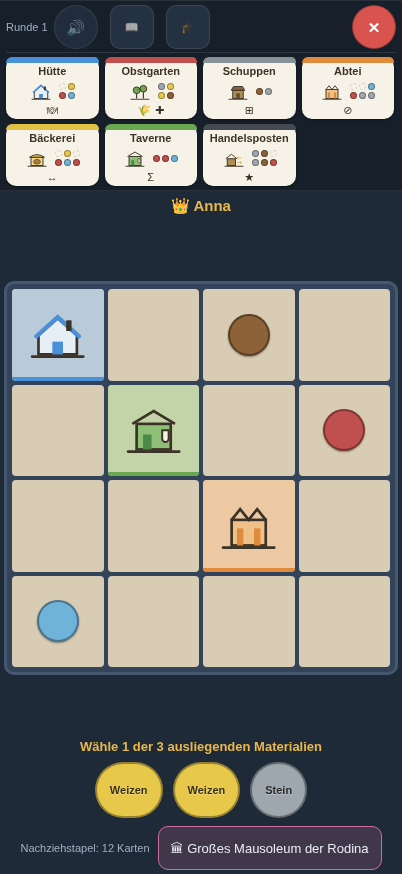
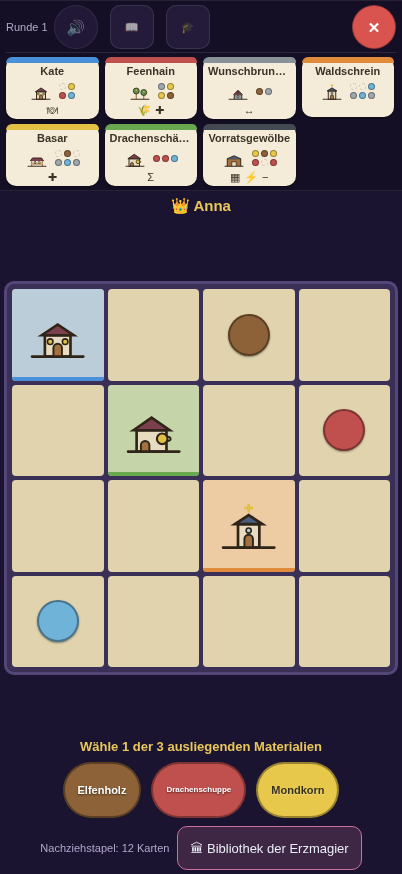
Das Drachenreich ist die Standard-Welt (v4.1.0)
Aus der Rechtsdurchsicht: Die App zeigt von sich aus keine fremden
Bezeichnungen mehr. Namen, Texte und Artworks des Drachenreichs sind
durchgehend eigene Schöpfungen — was bleibt, ist das Spielsystem, und
Systeme sind frei. Die klassische Welt bleibt eine Wahl im 🎨-Menü, für alle,
die die vertrauten Namen wollen.

Technisch ein kleiner Eingriff: DEFAULT_THEME in src/theme/index.ts, plus
das Inline-Skript in index.html, das die Palette schon vor dem ersten Paint
setzt — ohne diese zweite Stelle blitzt beim Laden kurz die klassische Welt
auf. Eine getroffene Wahl gilt weiter; ungefragt gespeichert wird nichts,
sonst könnte ein späterer Standardwechsel alte Geräte nie mehr erreichen.

Die Smoke-Tests suchen Bedienelemente und Materialien über ihre deutschen
Klassik-Namen („Eisenbahn-Modus", „Weizen"). Die heißen im Drachenreich
anders, also liefen sie nach dem Wechsel ins Leere. Sie laufen jetzt fest in
der klassischen Welt (storageState je Kontext) — sie messen Mechanik und
Layout, nicht Benennung. Der Standard hat einen eigenen Block, der ihn
ausdrücklich prüft: Palette schon im Splash, Auslage trägt „Kate" und nicht
„Hütte", nichts ungefragt gespeichert. Gegenprobe im selben Block: Wer
klassisch wählt, bekommt klassisch.

README-Bilder neu erzeugt — sie zeigen jetzt Kate, Feenquell,
Drachenschänke und die violetten Nebelflüsse der Landpartie.

Geprüft: 390 Tests, svelte-check, Build, alle drei Smoke-Tests. Gegenprobe
[…]

diff --git a/src/theme/index.ts b/src/theme/index.ts
@@ -10,21 +10,29 @@ export type ThemeId = 'classic' | 'mars' | 'fantasy';
 
 export const THEMES: { id: ThemeId }[] = [{ id: 'classic' }, { id: 'mars' }, { id: 'fantasy' }];
 
+/**
+ * Standard-Welt: das Drachenreich. Seine Namen, Texte und Artworks sind
+ * durchgehend eigene Schöpfungen — die App zeigt damit von sich aus keine
+ * fremden Bezeichnungen. Die klassische Welt bleibt eine Wahl im 🎨-Menü,
+ * ihre Namen sind die des Originals.
+ */
+export const DEFAULT_THEME: ThemeId = 'fantasy';
+
 /** Alle Themes außer dem klassischen — diese brauchen Karten-Overrides. */
 export const SKINNED_THEMES: Exclude<ThemeId, 'classic'>[] = ['mars', 'fantasy'];
 
 const STORAGE_KEY = 'tinytowns.theme';
 
-/** Gültige gespeicherte Wahl oder Standard (klassisch). */
+/** Gültige gespeicherte Wahl oder der Standard. */
 export function pickTheme(stored: string | null): ThemeId {
-  return THEMES.some((t) => t.id === stored) ? (stored as ThemeId) : 'classic';
+  return THEMES.some((t) => t.id === stored) ? (stored as ThemeId) : DEFAULT_THEME;
 }
 
 function detect(): ThemeId {
   try {
     return pickTheme(localStorage.getItem(STORAGE_KEY));
   } catch {
-    return 'classic';
+    return DEFAULT_THEME;
   }
 }
 

diff --git a/src/theme/theme.test.ts b/src/theme/theme.test.ts
@@ -1,6 +1,6 @@
 import { describe, it, expect } from 'vitest';
 import { allCards, artBySvgName } from '../data';
-import { pickTheme, SKINNED_THEMES, THEME_RESOURCES, THEME_STRINGS } from './index';
+import { DEFAULT_THEME, pickTheme, SKINNED_THEMES, THEME_RESOURCES, THEME_STRINGS } from './index';
 
 /**
  * Begriffe der klassischen Welt, die im jeweiligen Theme NICHT mehr
@@ -115,8 +115,12 @@ describe('Theme-Wahl', () => {
   it('nur registrierte Themes, sonst klassisch', () => {
     expect(pickTheme('mars')).toBe('mars');
     expect(pickTheme('fantasy')).toBe('fantasy');
+    // Eine gespeicherte Wahl gilt immer — auch die klassische Welt
     expect(pickTheme('classic')).toBe('classic');
-    expect(pickTheme('xyz')).toBe('classic');
-    expect(pickTheme(null)).toBe('classic');
+    expect(pickTheme('mars')).toBe('mars');
+    // Ohne (gültige) Wahl gilt der Standard: das Drachenreich
+    expect(pickTheme('xyz')).toBe(DEFAULT_THEME);
+    expect(pickTheme(null)).toBe(DEFAULT_THEME);
+    expect(DEFAULT_THEME).toBe('fantasy');
   });
 });

diff --git a/index.html b/index.html
@@ -2,7 +2,7 @@
 <html lang="en">
   <head>
     <meta charset="UTF-8" />
-    <script>try{var th=localStorage.getItem('tinytowns.theme');if(th&&th!=='classic')document.documentElement.dataset.theme=th;}catch(e){}</script>
+    <script>try{var th=localStorage.getItem('tinytowns.theme');if(!th||['classic','mars','fantasy'].indexOf(th)<0)th='fantasy';if(th!=='classic')document.documentElement.dataset.theme=th;}catch(e){document.documentElement.dataset.theme='fantasy';}</script>
     <link rel="icon" type="image/svg+xml" href="./icons/icon.svg" />
     <link rel="apple-touch-icon" href="./icons/apple-touch-icon.png" />
     <meta name="viewport" content="width=device-width, initial-scale=1.0, maximum-scale=1.0, user-scalable=no, viewport-fit=cover" />

diff --git a/README.md b/README.md
@@ -4,7 +4,9 @@ A digital adaptation of the board game *Tiny Towns* (base game) — a purely cli
 web app (PWA) for **tablets and phones**. The classic mode puts **2–4 players around
 one tablet in landscape**: everyone plays simultaneously at the four corners of the
 device, with the game's 7 building cards in the middle — or each player joins with
-their own device. Beside it stands **Countryside** (🏞), our own variant on a taller
+their own device. It plays in a **dragon realm** by default — crofts, elfwood and
+moongrain, all of it our own — with a Mars colony and the classic forest town a
+tap away in the 🎨 picker. Beside it stands **Countryside** (🏞), our own variant on a taller
 5×6 board with a river, mountains and a lake you cannot build on, and three extra
 waterfront cards that score next to them. Solo, daily challenge, learning mode and
 several expansions are all in the box.
@@ -15,13 +17,13 @@ several expansions are all in the box.
 
 **One tablet, four towns.** Everyone plays at the same time; each corner is
 rotated toward its player, and the round's building cards sit in the middle.
-The Master Builder (👑) has named wood — everyone places it on their own board.
+The Master Builder (👑) has named elfwood — everyone places it on their own board.
 
 ![Four players around one tablet](docs/screenshots/tablet-table.png)
 
 **Countryside: a taller board with a landscape in it.** 5 wide and 6 high — the
 shape of a phone held upright. The river, the ridge and the lake are unbuildable,
-and the three waterfront cards (here Ferry Landing, Ore Mine, Watermill) only
+and the three waterfront cards (here Crag Eyrie, Ferry Pier, Fisher's Croft) only
 score next to the matching terrain. Every player gets the same map, so the towns
 stay comparable. Next to it a solo game on a phone: your own board large, the
 deck's three face-up resources below it.
@@ -63,8 +65,11 @@ while Anna and Ben are on their phones — the state is identical on every devic
     (sources in `schema.md`).
   - *Tiny Trees* — seed tokens: building over a seed grants a free resource; as the
     last empty square, the seed becomes a tree (2 points).
-- **Themes (per device):** the classic forest town, a **Mars colony**, or a
-  **dragon realm** — same rules, different world. Every card (base game,
+- **Themes (per device):** the **dragon realm** (the default), a **Mars colony**,
+  or the classic forest town — same rules, different world. The dragon realm
+  leads because its names, texts and artwork are original throughout: out of the
+  box the app shows none of the original game's wording. The classic world is
+  one tap away for anyone who wants the names they know. Every card (base game,
   monuments, Fortune, station) gets its own name, rule text, and artwork, and the
   vocabulary changes with it: on Mars you supply habitats in a colony with
   regolith and ice, coins become power cells; in the dragon realm you provision
